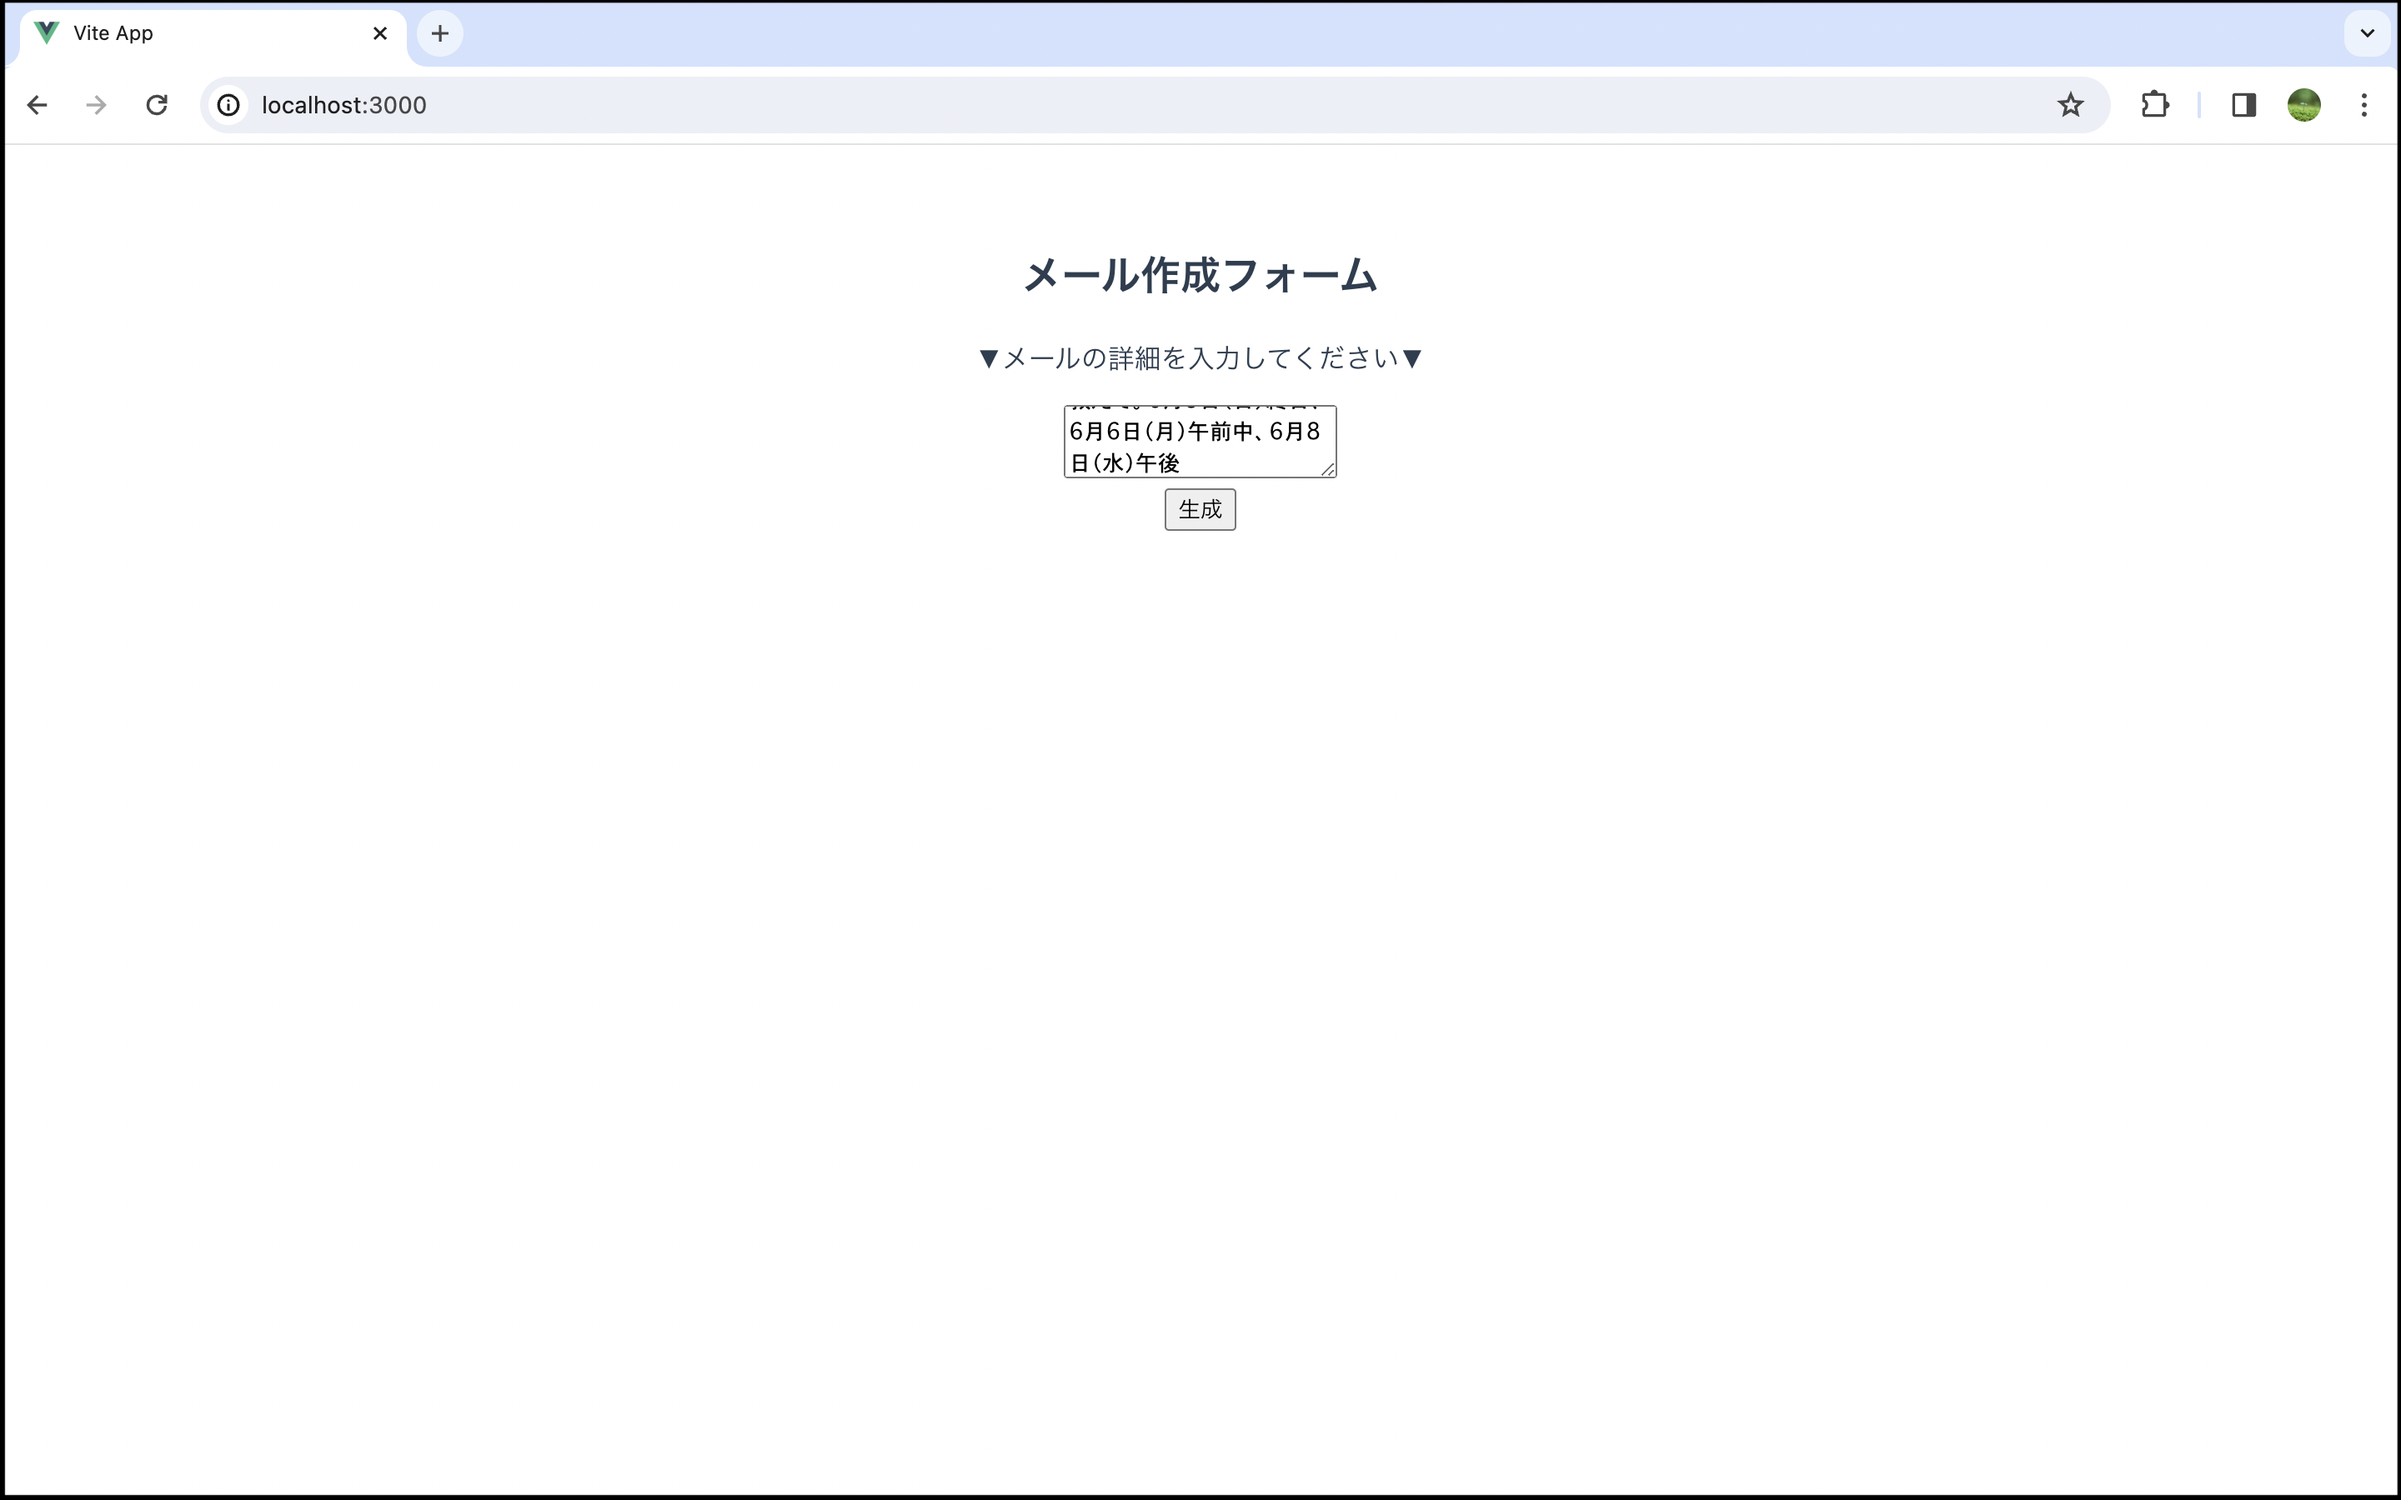
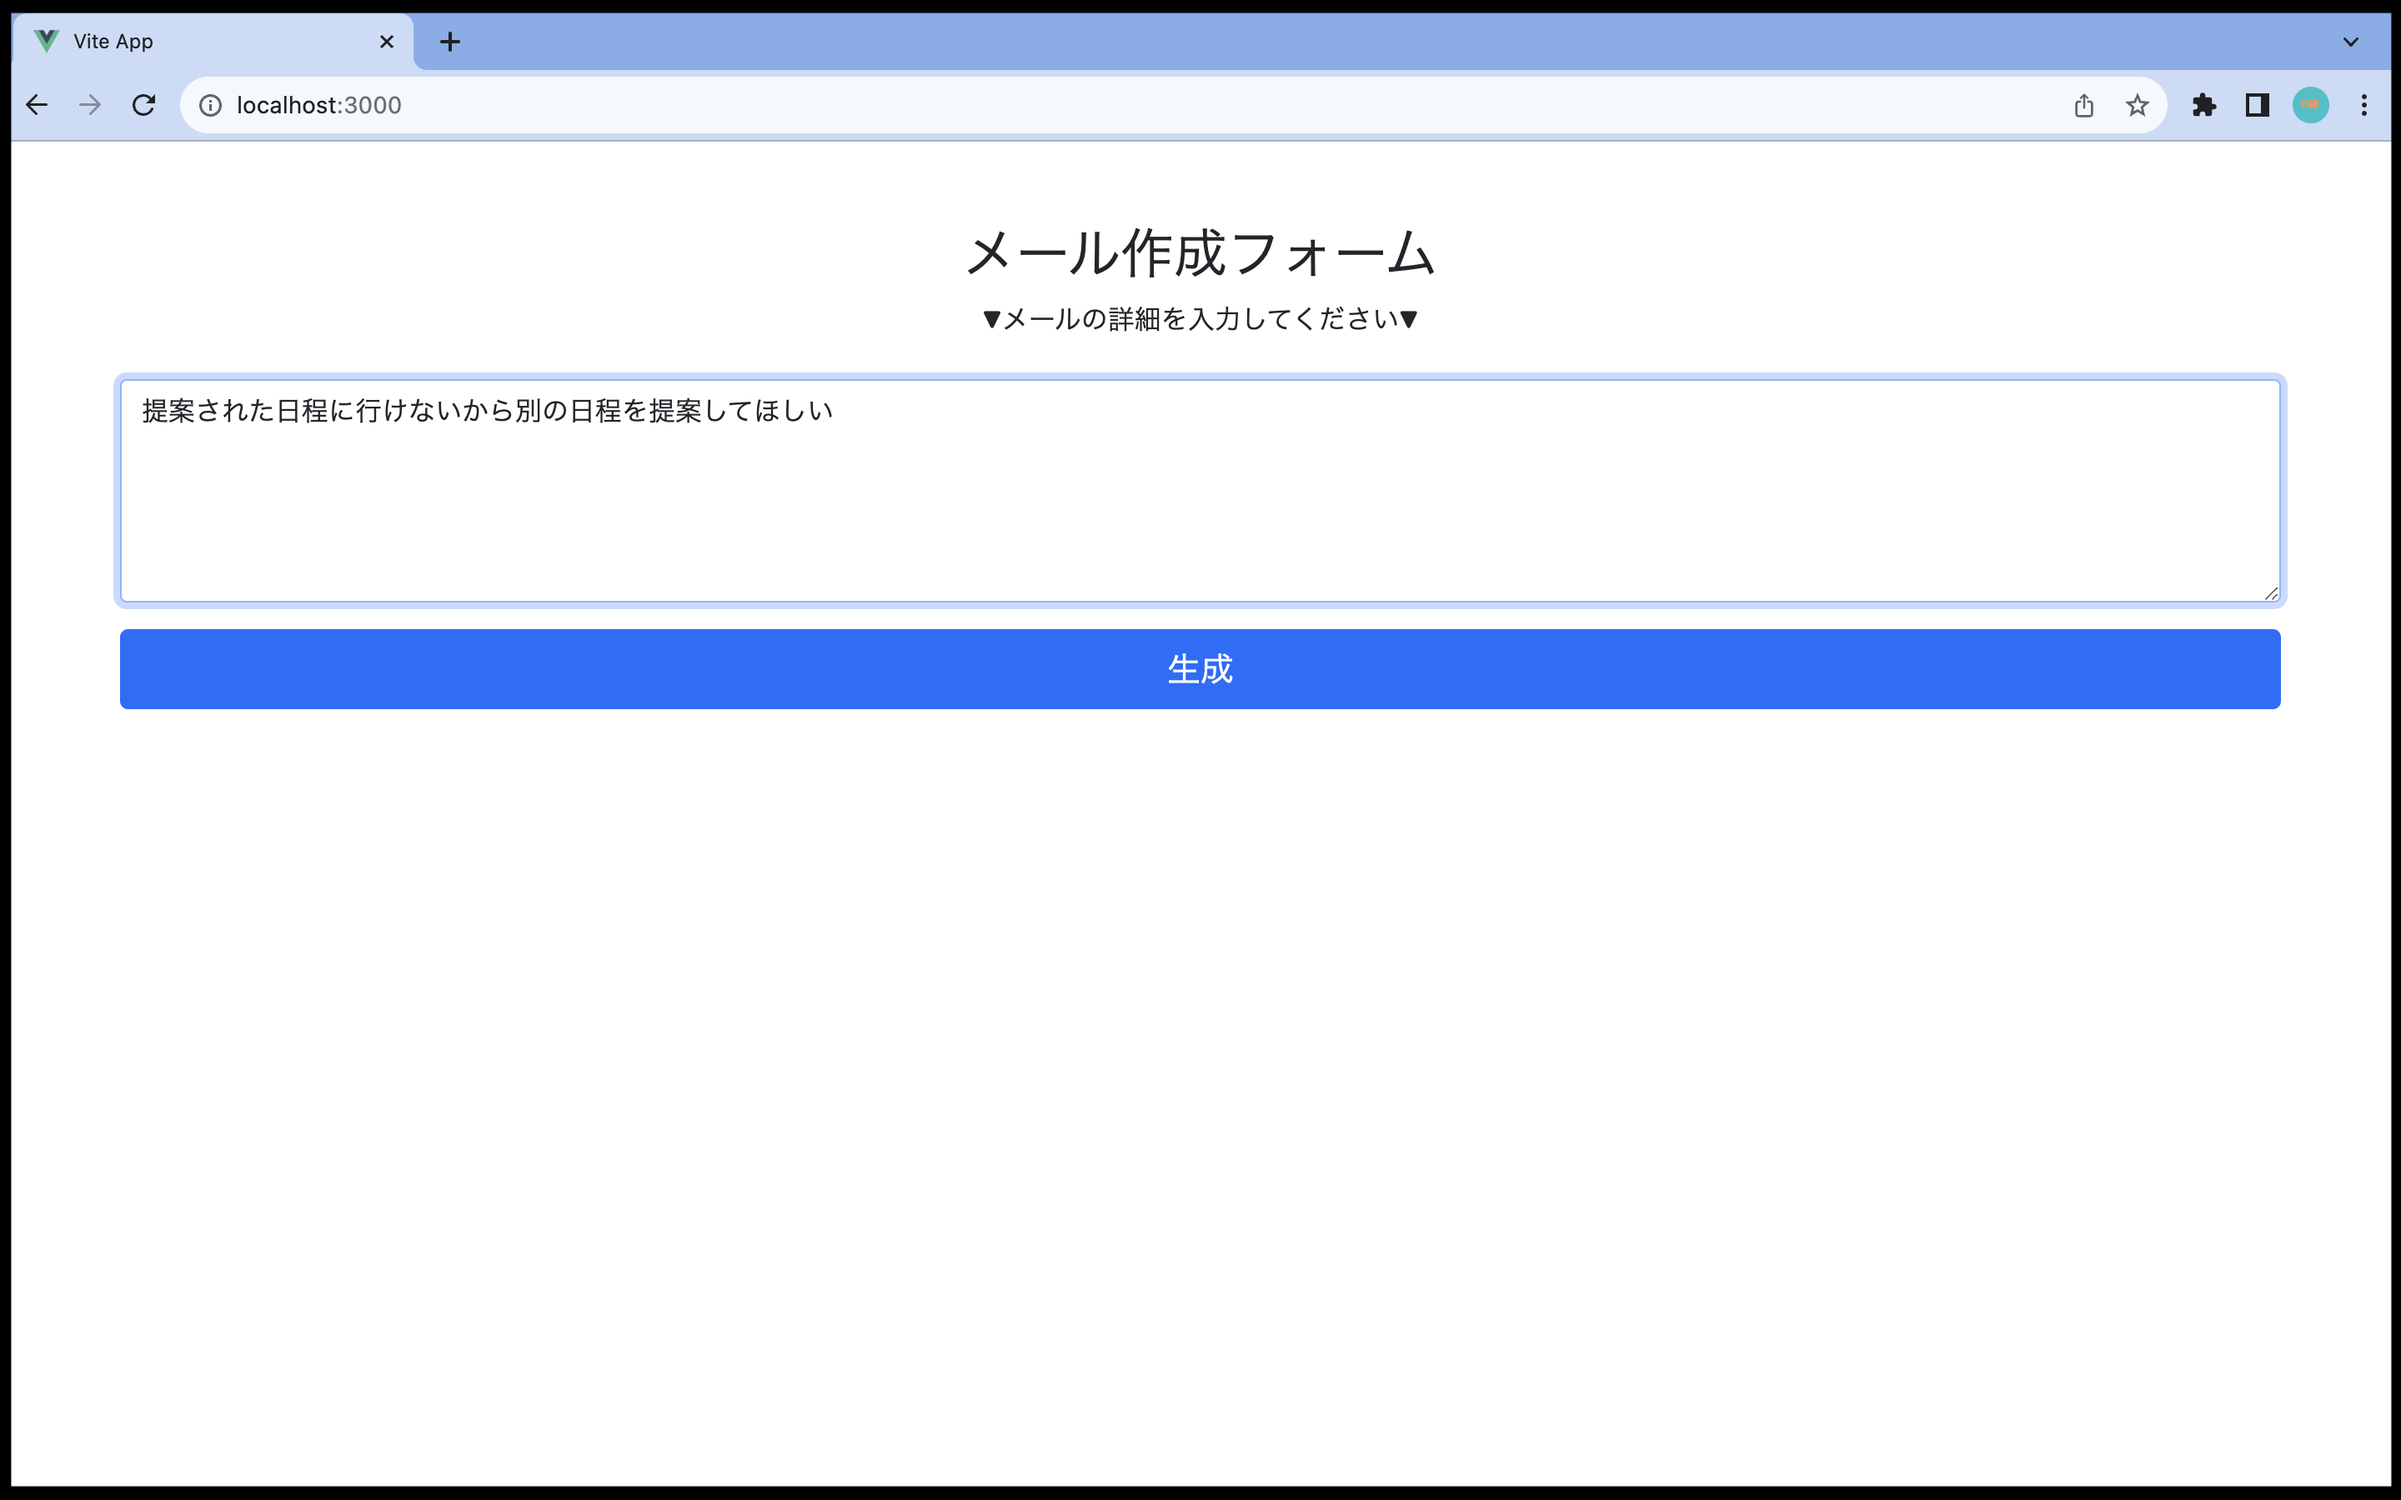
最終調整

Changed region(s): [[0.0312, 0.1556, 0.9688, 0.4978], [0.0, 0.0, 1.0, 0.1244], [0.0, 0.9644, 1.0, 1.0]]

diff --git a/frontend/src/App.vue b/frontend/src/App.vue
@@ -30,7 +30,7 @@
     <div class="card mt-5">
 
       <!-- cardのheader表示 -->
-      <div class="card-header py-3">
+      <div class="card-header pt-3">
         <div class="row align-items-center">
           <!-- 件名の表示 -->
           <div class="col">
@@ -41,7 +41,7 @@
           <!-- コピーアイコンの表示 -->
           <div class="w-25">
             <template v-if="!titleClip">
-              <button class="btn btn-outline-dark px-3 float-end" @click="copyToClipboard(subject, 'title')">
+              <button class="btn btn-outline-dark float-end" @click="copyToClipboard(subject, 'title')">
                 <svg xmlns="http://www.w3.org/2000/svg" width="16" height="16" fill="currentColor" class="bi bi-clipboard" viewBox="0 0 16 16">
                   <path d="M4 1.5H3a2 2 0 0 0-2 2V14a2 2 0 0 0 2 2h10a2 2 0 0 0 2-2V3.5a2 2 0 0 0-2-2h-1v1h1a1 1 0 0 1 1 1V14a1 1 0 0 1-1 1H3a1 1 0 0 1-1-1V3.5a1 1 0 0 1 1-1h1v-1z"/>
                   <path d="M9.5 1a.5.5 0 0 1 .5.5v1a.5.5 0 0 1-.5.5h-3a.5.5 0 0 1-.5-.5v-1a.5.5 0 0 1 .5-.5h3zm-3-1A1.5 1.5 0 0 0 5 1.5v1A1.5 1.5 0 0 0 6.5 4h3A1.5 1.5 0 0 0 11 2.5v-1A1.5 1.5 0 0 0 9.5 0h-3z"/>
@@ -49,7 +49,7 @@
               </button>
             </template>
             <template v-else>
-              <button class="btn btn-outline-dark px-3 float-end">
+              <button class="btn btn-outline-dark float-end">
                 <svg xmlns="http://www.w3.org/2000/svg" width="16" height="16" fill="currentColor" class="bi bi-check" viewBox="0 0 16 16">
                   <path d="M10.97 4.97a.75.75 0 0 1 1.07 1.05l-3.99 4.99a.75.75 0 0 1-1.08.02L4.324 8.384a.75.75 0 1 1 1.06-1.06l2.094 2.093 3.473-4.425a.267.267 0 0 1 .02-.022z"/>
                 </svg>
@@ -60,28 +60,37 @@
       </div>
 
       <!-- cardのbody表示 -->
-      <textarea class="card-body editable-code-body w-100" rows="10">
+      <div class="card-body">
+
+        <!-- コピーアイコンの表示 -->
+        <div>
+          <div class="float-end" v-if="!bodyClip">
+            <button class="btn btn-outline-dark float-end mb-3" @click="copyToClipboard(modified_content, 'body')">
+              <svg xmlns="http://www.w3.org/2000/svg" width="16" height="16" fill="currentColor" class="bi bi-clipboard" viewBox="0 0 16 16">
+                <path d="M4 1.5H3a2 2 0 0 0-2 2V14a2 2 0 0 0 2 2h10a2 2 0 0 0 2-2V3.5a2 2 0 0 0-2-2h-1v1h1a1 1 0 0 1 1 1V14a1 1 0 0 1-1 1H3a1 1 0 0 1-1-1V3.5a1 1 0 0 1 1-1h1v-1z"/>
+                <path d="M9.5 1a.5.5 0 0 1 .5.5v1a.5.5 0 0 1-.5.5h-3a.5.5 0 0 1-.5-.5v-1a.5.5 0 0 1 .5-.5h3zm-3-1A1.5 1.5 0 0 0 5 1.5v1A1.5 1.5 0 0 0 6.5 4h3A1.5 1.5 0 0 0 11 2.5v-1A1.5 1.5 0 0 0 9.5 0h-3z"/>
+              </svg>
+            </button>
+          </div>
+          <div class="float-end"  v-else>
+            <button class="btn btn-outline-dark float-end mb-3">
+              <svg xmlns="http://www.w3.org/2000/svg" width="16" height="16" fill="currentColor" class="bi bi-check" viewBox="0 0 16 16">
+                <path d="M10.97 4.97a.75.75 0 0 1 1.07 1.05l-3.99 4.99a.75.75 0 0 1-1.08.02L4.324 8.384a.75.75 0 1 1 1.06-1.06l2.094 2.093 3.473-4.425a.267.267 0 0 1 .02-.022z"/>
+              </svg>
+            </button>  
+          </div>
+        </div>
+
+        <!-- テキストエリアの表示 -->
+        <textarea class="editable-code-body w-100 my-3" rows="10">
           {{ modified_content }}
-      </textarea>
+        </textarea>
+
+      </div>
 
     </div>
 
-    <!-- コピーアイコンの表示 -->
-    <div class="float-end w-25" v-if="!bodyClip">
-      <button class="btn btn-outline-dark float-end mt-3" @click="copyToClipboard(modified_content, 'body')">
-        <svg xmlns="http://www.w3.org/2000/svg" width="16" height="16" fill="currentColor" class="bi bi-clipboard" viewBox="0 0 16 16">
-          <path d="M4 1.5H3a2 2 0 0 0-2 2V14a2 2 0 0 0 2 2h10a2 2 0 0 0 2-2V3.5a2 2 0 0 0-2-2h-1v1h1a1 1 0 0 1 1 1V14a1 1 0 0 1-1 1H3a1 1 0 0 1-1-1V3.5a1 1 0 0 1 1-1h1v-1z"/>
-          <path d="M9.5 1a.5.5 0 0 1 .5.5v1a.5.5 0 0 1-.5.5h-3a.5.5 0 0 1-.5-.5v-1a.5.5 0 0 1 .5-.5h3zm-3-1A1.5 1.5 0 0 0 5 1.5v1A1.5 1.5 0 0 0 6.5 4h3A1.5 1.5 0 0 0 11 2.5v-1A1.5 1.5 0 0 0 9.5 0h-3z"/>
-        </svg>
-      </button>
-    </div>
-    <div class="float-end w-25"  v-else>
-      <button class="btn btn-outline-dark float-end mt-3">
-        <svg xmlns="http://www.w3.org/2000/svg" width="16" height="16" fill="currentColor" class="bi bi-check" viewBox="0 0 16 16">
-          <path d="M10.97 4.97a.75.75 0 0 1 1.07 1.05l-3.99 4.99a.75.75 0 0 1-1.08.02L4.324 8.384a.75.75 0 1 1 1.06-1.06l2.094 2.093 3.473-4.425a.267.267 0 0 1 .02-.022z"/>
-        </svg>
-      </button>  
-    </div>
+    
 
   </template>
   <br><br><br><br>

diff --git a/backend/langchain_mail.py b/backend/langchain_mail.py
@@ -7,11 +7,11 @@ load_dotenv()
 
 def create_mail(content):
 
-    #一つ目のチェーン作成：メール内容の文章校正
+    #一つ目のチェーン作成：メール内容の生成
     template="""
-    あなたはビジネスマナーに精通した社会人です.ある文章が与えられた場合、その文章を正しい敬語表現を利用した修正版文章を作成することがあなたの仕事です。
-    文章:{content}
-    修正版文章："""
+    あなたはビジネスマナーに精通した社会人です.与えられたメールの内容を元に、正しい敬語表現を利用したメールの文章を生成することがあなたの仕事です。
+    メールの内容:{content}
+    生成文章："""
 
     prompt = PromptTemplate(
         input_variables=["content"],
@@ -26,7 +26,7 @@ def create_mail(content):
 
     #二つ目のチェーン作成：メールの件名の作成
     template="""
-        メール本文をもとにこのメールの件名の候補を5つ教えてください。
+        メール本文をもとにこのメールの件名を教えてください。
         できるだけ具体的に、かつ端的にわかりやすくしてください。
         メール本文：
         {modified_content}

diff --git a/backend/README.md b/backend/README.md
@@ -40,4 +40,4 @@ docker run --rm -p 8080:8080 my-flask-mail-app
 
 ## APIのテスト ： POSTコマンド
 ```sh
-curl http://127.0.0.1:8080 -XPOST -H "Content-Type: application/json" -d  '{"content":"先日はミーティングのスケジュール候補日を提案してもらってありがとう。しかし、提案いただいた日程では私たちの方で調整が難しい。ということで、改めて下記のいずれかでミーティングを実施することはできる？次の日程の中から都合が合う日程を教えて。6月5日（日）終日、6月6日（月）午前中、6月8日（水）午後"}'
+curl http://127.0.0.1:8080 -XPOST -H "Content-Type: application/json" -d  '{"content":"提案された日程に行けないから別の日程を提案してほしい"}'

diff --git a/frontend/README.md b/frontend/README.md
@@ -30,5 +30,5 @@ docker run --rm -p 3000:3000 my-vue-mail-app
 ## サンプルテキストの入力
 
 ```txt
-先日はミーティングのスケジュール候補日を提案してもらってありがとう。しかし、提案いただいた日程では私たちの方で調整が難しい。ということで、改めて下記のいずれかでミーティングを実施することはできる？次の日程の中から都合が合う日程を教えて。6月5日（日）終日、6月6日（月）午前中、6月8日（水）午後
+提案された日程に行けないから別の日程を提案してほしい
 ```

diff --git a/README.md b/README.md
@@ -32,6 +32,10 @@
 
 ![step3](imgs/step3.png)
 
+4. ERRORの場合
+
+![step4](imgs/step4.png)
+
 <br>
 
 ## 技術的な詳細
